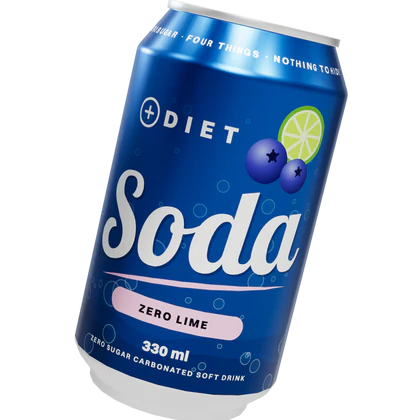
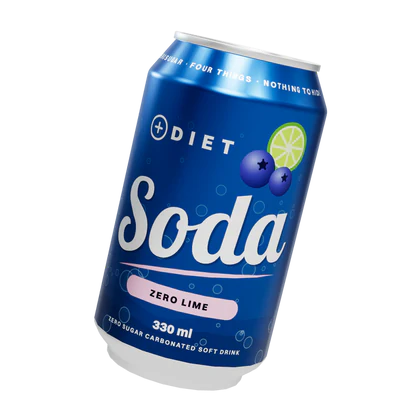
Frame the rendered cards like the originals
The rendered can filled the 700px frame and clipped top and bottom
(454x700). It now sits at 388x599, centred, against 369x598 for the old
shots, so the cards keep their size and overhang in the slot.

diff --git a/tools/card.html b/tools/card.html
@@ -65,7 +65,7 @@ pose.rotation.set(0.17, -0.1, -0.23, 'ZXY');
 scene.add(pose);
 
 const camera = new THREE.PerspectiveCamera(22, 1, 0.01, 10);
-camera.position.z = (height * 1.09) / (2 * Math.tan(THREE.MathUtils.degToRad(11)));
+camera.position.z = (height * 1.275) / (2 * Math.tan(THREE.MathUtils.degToRad(11)));
 
 renderer.render(scene, camera);
 requestAnimationFrame(() => requestAnimationFrame(() => {
